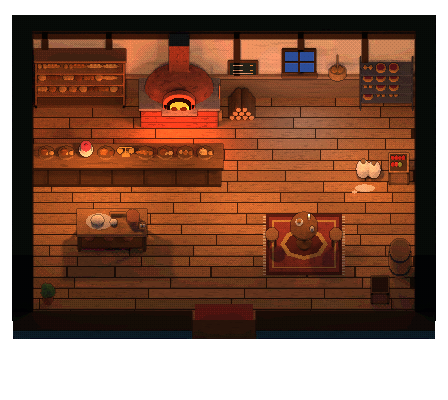
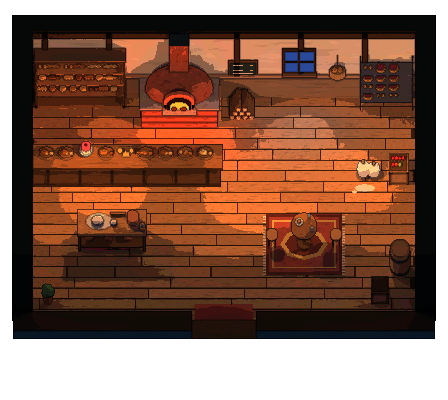
The bakery in the toy finish: its firelight in flat warm bands, a line round every loaf, table and barrel
Claude-Session: https://claude.ai/code/session_01YWagzzwfqQ4vieepmY3LEk

diff --git a/_claude_docs/requests.md b/_claude_docs/requests.md
@@ -18,7 +18,7 @@ a new place*).
 | The normal faces (not the round ones) on the people | **done** (NPCs and crowd); pilots rendering | Painted faces on every sheet (`characters.py` projects the face's points, `sprites_post.py` paints them: eyes with a catch-light, brows, a smile, blush; idle3 a blink, and everyone blinks now and then). All 131 NPCs and the crowd's bodies are on main; the pilots' 1,050 sheets are rendering and follow. |
 | A face in the talk portrait, Stardew-style (not the top of a hat) | **done** | `tools/bridge-art/portraits.py`: 64 × 64 face-on portraits for every NPC, crowd body and pilot head, five expressions (neutral, happy, surprised, sad, blink) that follow the conversation; ×2 on a desktop, ×1 on a phone; the same faces, halved, in the ledger and on the staff board. |
 | **Backlog** — re-render the outdoor places with live light and the toy finish | open | Done: the Market Square. To do — Lumar: Diggen's Point (`lumar_harbor`), Crownhaven, Tern Holm, Starling Holm, Rose Cove, Sapphire Port, Crimson Reach. Verdance: the farm, Brambleford. Hoarfell: Fellhaven, the pistes, the Park, the face, the summit, the Last Ridge, the Ice Step. Sylvara: Elderglade. (Midnight Isle and Arcadia never see the sun: the toy finish only.) |
-| **Backlog** — re-render the interiors and night places in the toy finish | open | Every other scene in `tools/bridge-art/scenes/` (taverns, shops, homes, the ship, the stations, the casino, Arcadia's streets, Midnight Isle, the mines and caves). |
+| **Backlog** — re-render the interiors and night places in the toy finish | open | Done: the bakery. To do: every other scene in `tools/bridge-art/scenes/` (taverns, shops, homes, the ship, the stations, the casino, Arcadia's streets, Midnight Isle, the mines and caves). |
 | **Backlog** — rebuild the places as richer dioramas, world by world | open | Shaped land, layered vegetation, the house kit, small life (the reference dioramas' standard). Start with the farm and Brambleford (Millpond Farm shows the way), then Lumar's towns, Elderglade, Fellhaven. |
 | **Backlog** — faces on every sheet, pilots included | open | Whatever the first pass doesn't reach (the pilots' sport and attack sheets, the crowd, event sheets). |
 | **Backlog** — the sea under live light: reflections of islands, ships and the sky | open | js/sea.js draws the sea over the relit seabed; Look Book's mirrored reflections for the open water and harbours. |
